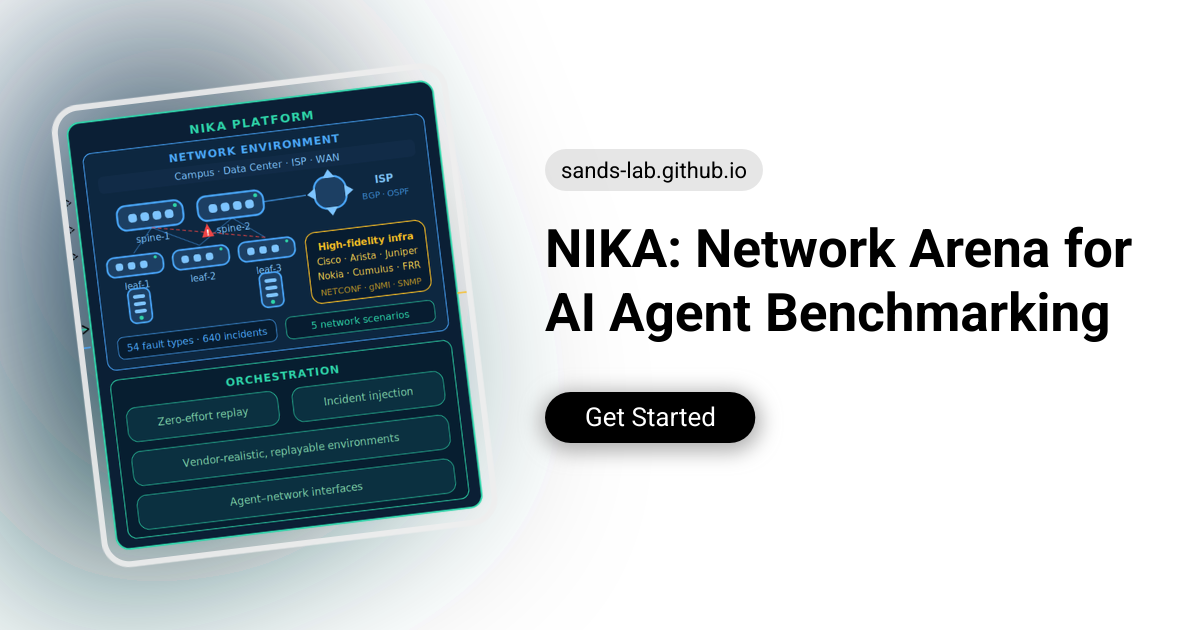
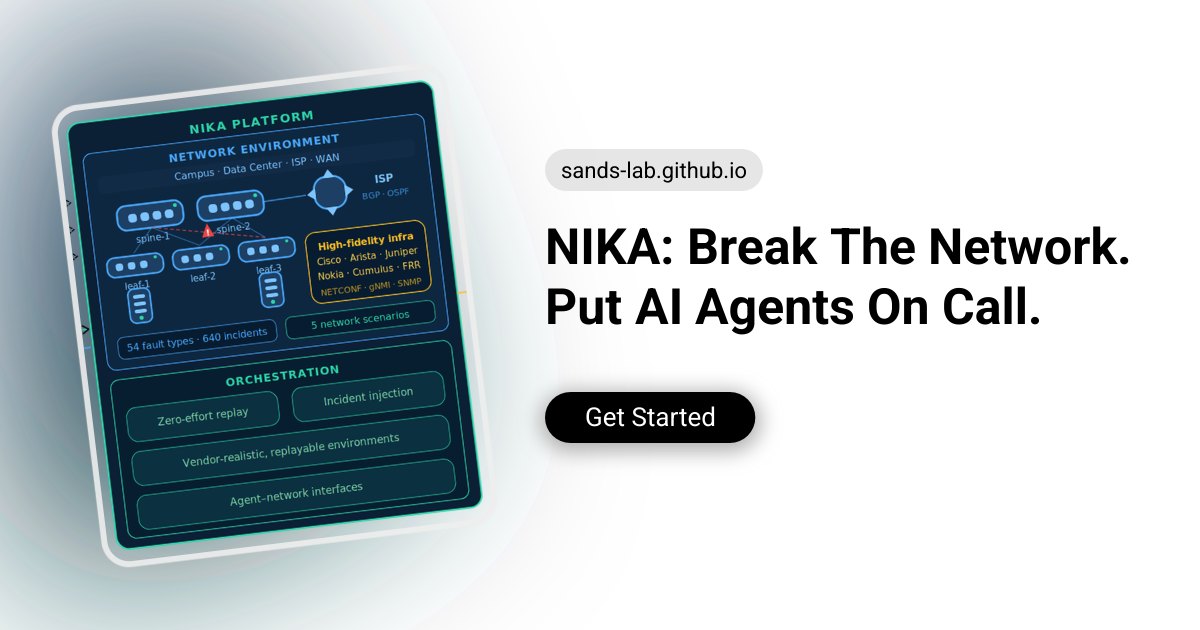
title fixes and descriptions + og-image

Changed region(s): [[0.4317, 0.4524, 0.925, 0.5429], [0.4625, 0.3619, 0.9558, 0.4222]]

diff --git a/index.html b/index.html
@@ -6,10 +6,10 @@
     <title>NIKA — Network Arena for AI Agent Benchmarking</title>
     <meta
       name="description"
-      content="NIKA is a unified platform for benchmarking AI agents on realistic network troubleshooting tasks, covering 640 distinct incidents across 5 network scenarios."
+      content="NIKA is a unified platform for agentic evaluations on network troubleshooting tasks. Think about SWE-Bench, but for network engineers."
     />
-    <meta property="og:title" content="NIKA — Network Arena for AI Agent Benchmarking" />
-    <meta property="og:description" content="NIKA is a unified platform for benchmarking AI agents on realistic network troubleshooting tasks. Think about SWE-Bench, but for network engineers." />
+    <meta property="og:title" content="NIKA: A Live Network Incidents Benchmark for AI Agents" />
+    <meta property="og:description" content="NIKA is a unified platform for agentic evaluations on network troubleshooting tasks. Think about SWE-Bench, but for network engineers." />
     <meta property="og:url" content="https://sands-lab.github.io/nika/" />
     <meta property="og:type" content="website" />
     <meta property="og:image" content="https://sands-lab.github.io/nika/assets/images/og-image.png" />
@@ -17,8 +17,8 @@
     <meta property="og:image:height" content="630" />
     <meta property="og:image:type" content="image/png" />
     <meta name="twitter:card" content="summary_large_image" />
-    <meta name="twitter:title" content="NIKA — Network Arena for AI Agent Benchmarking" />
-    <meta name="twitter:description" content="NIKA is a unified platform for benchmarking AI agents on realistic network troubleshooting tasks. Think about SWE-Bench, but for network engineers." />
+    <meta name="twitter:title" content="NIKA: A Live Network Incidents Benchmark for AI Agents" />
+    <meta name="twitter:description" content="NIKA is a unified platform for agentic evaluations on network troubleshooting tasks. Think about SWE-Bench, but for network engineers." />
     <meta name="twitter:image" content="https://sands-lab.github.io/nika/assets/images/og-image.png" />
     <link rel="icon" type="image/svg+xml" href="assets/images/nika-overview-dark.svg" />
     <link rel="stylesheet" href="css/style.css" />
@@ -107,12 +107,15 @@
         </div>
         <h1 class="hero-title">
           <span class="hero-nika">NIKA</span>
-          <span class="hero-subtitle-line">Network Arena for</span>
-          <span class="hero-subtitle-line"
-            >Benchmarking <em>AI Agents</em></span
+          <!-- <span class="hero-subtitle-line">Network Arena for</span> -->
+           <!-- >Benchmarking <em>AI Agents</em></span -->
+          <span class="hero-subtitle-line">Break the Network.</span>
+           <span class="hero-subtitle-line"
+            >Put Your <em>AI Agent</em> On Call.</span
           >
         </h1>
-        <p class="hero-desc">A unified platform for agentic evaluations on realistic network troubleshooting tasks.</p>
+        <p class="hero-desc"><!-- A unified platform for agentic evaluations on realistic network troubleshooting tasks. -->
+A unified platform for benchmarking AI agents on realistic network troubleshooting tasks.</p>
         <div class="hero-ctas">
           <a
             class="btn btn-primary btn-lg"
@@ -188,7 +191,7 @@
         <div class="section-header">
           <span class="section-tag">Overview</span>
           <h2 class="section-title">What is NIKA?</h2>
-          <p class="section-desc">Think about SWE-bench, but for network troubleshooting: agents interact with real CLIs and telemetry across hundreds of reproducible network incidents, all running on your laptop, cluster, or cloud.</p>
+          <p class="section-desc">Think about SWE-bench, but for network troubleshooting. Agents interact with real CLIs and telemetry across hundreds of reproducible network incidents, all running on your laptop, cluster, or cloud.</p>
         </div>
         <div class="overview-grid">
           <div class="overview-image-wrap">

diff --git a/index.template.html b/index.template.html
@@ -6,10 +6,10 @@
     <title>NIKA — Network Arena for AI Agent Benchmarking</title>
     <meta
       name="description"
-      content="NIKA is a unified platform for benchmarking AI agents on realistic network troubleshooting tasks, covering 640 distinct incidents across 5 network scenarios."
+      content="NIKA is a unified platform for agentic evaluations on network troubleshooting tasks. Think about SWE-Bench, but for network engineers."
     />
-    <meta property="og:title" content="NIKA — Network Arena for AI Agent Benchmarking" />
-    <meta property="og:description" content="NIKA is a unified platform for benchmarking AI agents on realistic network troubleshooting tasks. Think about SWE-Bench, but for network engineers." />
+    <meta property="og:title" content="NIKA: A Live Network Incidents Benchmark for AI Agents" />
+    <meta property="og:description" content="NIKA is a unified platform for agentic evaluations on network troubleshooting tasks. Think about SWE-Bench, but for network engineers." />
     <meta property="og:url" content="https://sands-lab.github.io/nika/" />
     <meta property="og:type" content="website" />
     <meta property="og:image" content="https://sands-lab.github.io/nika/assets/images/og-image.png" />
@@ -17,8 +17,8 @@
     <meta property="og:image:height" content="630" />
     <meta property="og:image:type" content="image/png" />
     <meta name="twitter:card" content="summary_large_image" />
-    <meta name="twitter:title" content="NIKA — Network Arena for AI Agent Benchmarking" />
-    <meta name="twitter:description" content="NIKA is a unified platform for benchmarking AI agents on realistic network troubleshooting tasks. Think about SWE-Bench, but for network engineers." />
+    <meta name="twitter:title" content="NIKA: A Live Network Incidents Benchmark for AI Agents" />
+    <meta name="twitter:description" content="NIKA is a unified platform for agentic evaluations on network troubleshooting tasks. Think about SWE-Bench, but for network engineers." />
     <meta name="twitter:image" content="https://sands-lab.github.io/nika/assets/images/og-image.png" />
     <link rel="icon" type="image/svg+xml" href="assets/images/nika-overview-dark.svg" />
     <link rel="stylesheet" href="css/style.css" />
@@ -107,9 +107,11 @@
         </div>
         <h1 class="hero-title">
           <span class="hero-nika">NIKA</span>
-          <span class="hero-subtitle-line">Network Arena for</span>
-          <span class="hero-subtitle-line"
-            >Benchmarking <em>AI Agents</em></span
+          <!-- <span class="hero-subtitle-line">Network Arena for</span> -->
+           <!-- >Benchmarking <em>AI Agents</em></span -->
+          <span class="hero-subtitle-line">Break the Network.</span>
+           <span class="hero-subtitle-line"
+            >Put Your <em>AI Agent</em> On Call.</span
           >
         </h1>
         <p class="hero-desc"><!-- md:hero.desc --></p>

diff --git a/content/hero.md b/content/hero.md
@@ -3,5 +3,6 @@ New — support for Claude Code and Codex CLI available
 :::
 
 ::: desc
-A unified platform for agentic evaluations on realistic network troubleshooting tasks.
+<!-- A unified platform for agentic evaluations on realistic network troubleshooting tasks. -->
+A unified platform for benchmarking AI agents on realistic network troubleshooting tasks.
 :::

diff --git a/content/overview.md b/content/overview.md
@@ -7,7 +7,7 @@ What is NIKA?
 :::
 
 ::: desc
-Think about SWE-bench, but for network troubleshooting: agents interact with real CLIs and telemetry across hundreds of reproducible network incidents, all running on your laptop, cluster, or cloud.
+Think about SWE-bench, but for network troubleshooting. Agents interact with real CLIs and telemetry across hundreds of reproducible network incidents, all running on your laptop, cluster, or cloud.
 :::
 
 ::: card1_title